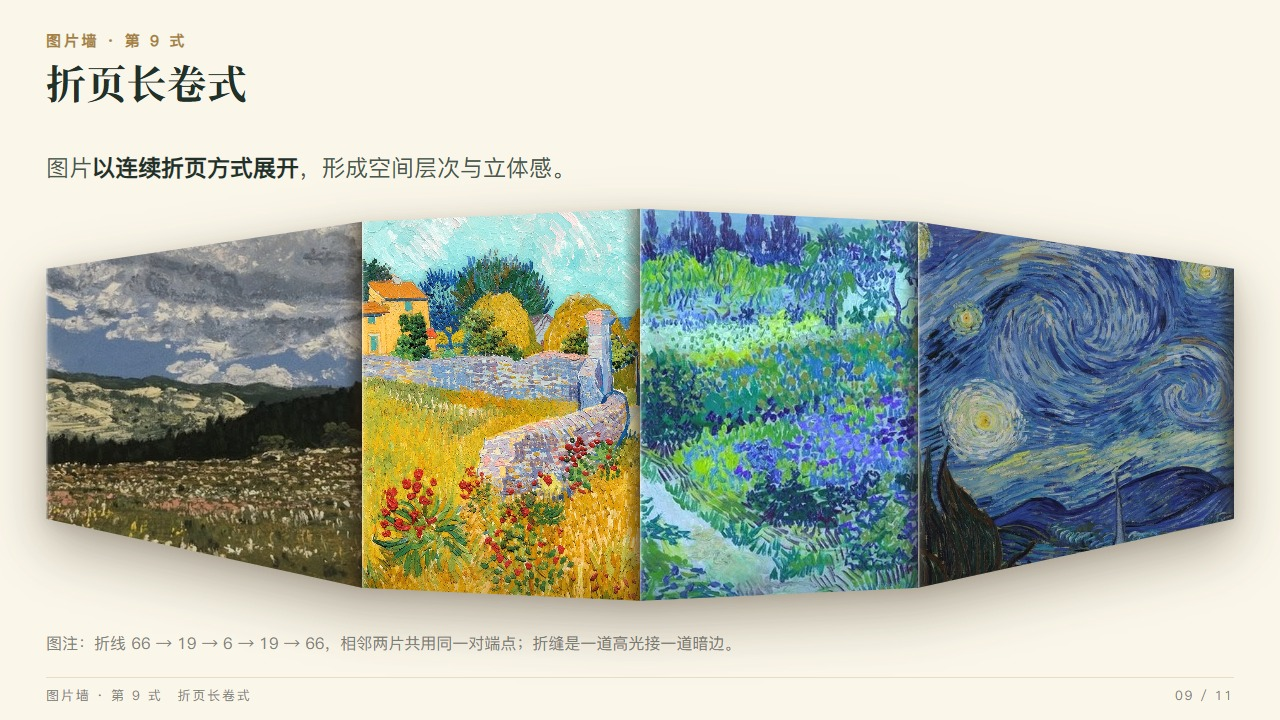
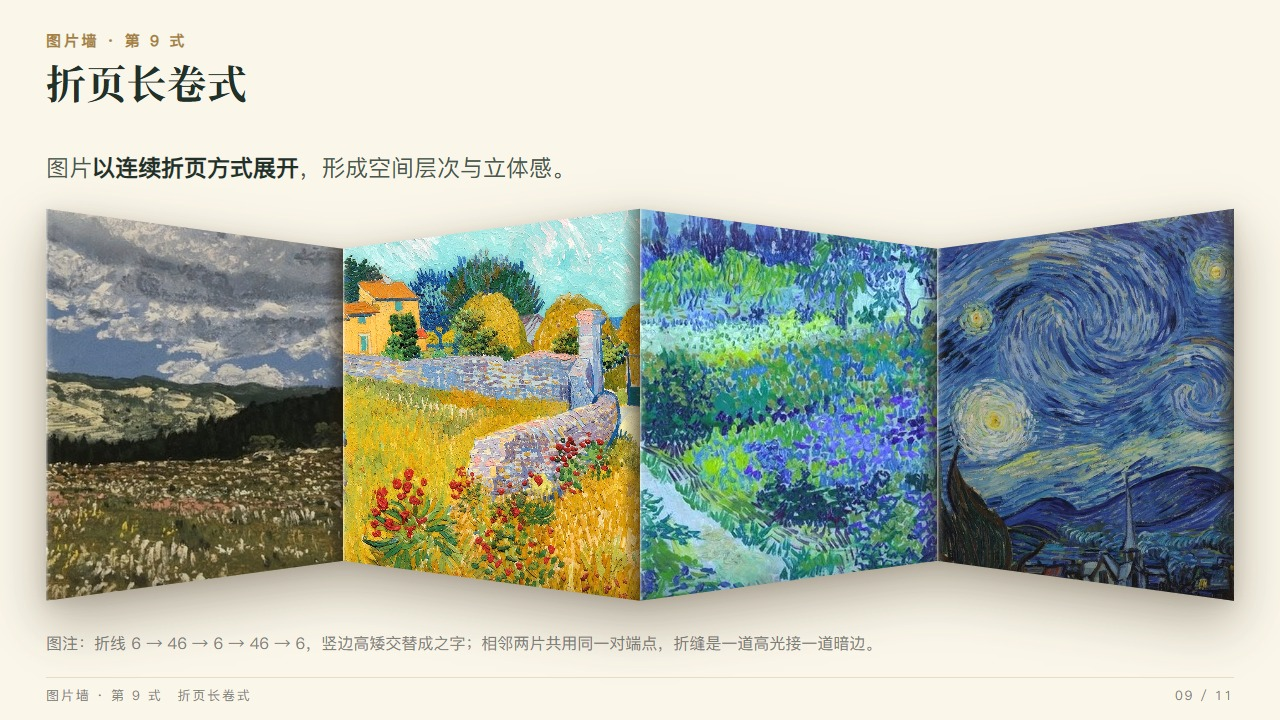
rice-paper-ppt 1.7.4：矩阵网格式按参考图重做——5×3 十五格卷成圆柱面
- 弃 2×2 两翼各转 22°，改棱柱面法：每列 translateZ(-R) rotateY(φ) translateZ(R)，R=678=列宽212÷2sin9°，φ=−36/−18/0/18/36；中列正对观众、越往外越窄越暗
- 关键坑：五列必须 absolute 叠在容器中点，flex 排开会与圆柱位移叠加、列距翻倍散开（实测踩过）
- 格 202×132、横竖缝同宽 10px、图不够相邻重复；wall-grid.html 与实拍重渲核对
- page-patterns §12.8 / components / README / SKILL / interface.yaml / evals R27 同步，两份副本 diff 全等

diff --git a/rice-paper-ppt/assets/theme.css b/rice-paper-ppt/assets/theme.css
@@ -432,86 +432,105 @@ em { font-style: normal; font-weight: 700; color: var(--green); }
 .crest-head { position: absolute; left: 0; top: 0; width: 660px; }
 .crest-head .wt { margin: 0 0 8px; font-size: var(--fs-h1); }
 
-/* ── 8 矩阵网格式（弧墙）：四张两行两列，整面朝观众卷进来 ────────────────────
-   三件套：perspective 挂容器、每列 rotateY 转角、沿 Z 退到圆弧上。
-   θ 与 Z 必须成对：只转不退，边列的四角会翘到邻格上；只退不转，边列只是变小、不变形。
-   立体感的大头不在形变而在光：中缝退得最远也压得最暗、两端外沿最亮，
-   再补一层顶亮底暗和一道贴地影，墙才从纸面上站起来。
-   两列各 24°、Z −110、perspective 1000：中缝比外沿矮 19%，这个差值才够读成「卷」。 */
+/* ── 8 矩阵网格式：5 列 × 3 行十五格，整面卷成一段圆柱面 ────────────────────
+   做法＝正多边形棱柱面：每列 transform: translateZ(-R) rotateY(φ) translateZ(R)，
+   列宽即弦长 W，R = W ÷ 2sin(δ/2)（δ 为每列圆心角），φ 从 −2δ 到 +2δ——
+   中列正对观众、两侧各两列绕圆柱向后转，相邻列的公共棱在 3D 里近似共点，
+   投影后中缝不裂。只转不退（少 translateZ）边列会翘到邻格上；只退不转只是变小不变形。
+   立体感的大头不在形变而在光：中列离观众最近全亮，越往外越暗越窄；
+   再补顶亮底暗与贴地影。容器禁止 filter——会把 3D 子层压平（投影走伪元素）。 */
 .w-cyl {
-  --cg: 5px; --a: 22deg;
+  --cw: 212px;  /* 列宽（弦长） */
+  --ch: 132px;  /* 格高 */
+  --cg: 10px;   /* 白缝（横竖同宽） */
+  --R: 678px;   /* 圆柱半径 = 212 ÷ 2sin9° */
+  --a: 18deg;   /* 每列圆心角 δ */
   position: relative;
-  display: grid; grid-template-columns: repeat(2, 1fr); grid-auto-rows: 1fr;
-  width: calc(100% + 92px); margin-left: -46px;
-  gap: var(--cg); height: 404px; background: none;
-  perspective: 1100px; perspective-origin: 50% 50%;
+  width: 100%; height: 416px; background: none;
+  perspective: 1200px; perspective-origin: 50% 50%;
 }
-/* 贴地影：只给每格配投影，四面都亮，墙是「悬」着的；先在地上压一道椭圆再谈形变。
-   用绝对定位的伪元素，不占网格位；直接给容器加 filter 会把 3D 子层压平。 */
+/* 贴地影：直接给容器加 filter 会把 3D 子层压平，投影用绝对定位伪元素。
+   （此规则与 .w-arc 共用，弧幕几乎全宽所以 left/right 3%，网格墙更窄单独放宽。） */
 .w-cyl::before,
 .w-arc::before {
-  content: ""; position: absolute; left: 3%; right: 3%; bottom: -20px; height: 30px;
+  content: ""; position: absolute; left: 3%; right: 3%; bottom: -18px; height: 30px;
   background: radial-gradient(ellipse at 50% 50%,
-    rgba(52,38,20,.42) 0, rgba(52,38,20,.16) 46%, rgba(52,38,20,0) 74%);
+    rgba(52,38,20,.40) 0, rgba(52,38,20,.15) 46%, rgba(52,38,20,0) 74%);
   filter: blur(5px); pointer-events: none;
 }
+.w-cyl::before { left: 15%; right: 15%; }
+/* 列＝棱柱面的一片：五列全部叠在容器中点（absolute 同一位置），
+   圆柱位置完全交给 transform——若再用 flex 排开，静态位置会与圆柱位移叠加，
+   列距直接翻倍散开（实测踩过）。padding 让出竖缝，列内三格用 margin 让出横缝 */
 .w-cyl .cc {
-  position: relative; min-width: 0; overflow: hidden;
-  transform: rotateY(var(--ry, 0deg));
+  position: absolute; left: calc(50% - var(--cw) / 2); top: 0;
+  width: var(--cw); padding: 0 calc(var(--cg) / 2);
+  transform: translateZ(calc(var(--R) * -1)) rotateY(var(--ry, 0deg)) translateZ(var(--R));
 }
-.w-cyl .cc img { width: 100%; height: 100%; object-fit: cover; display: block; }
-/* 轴在**中缝**不在格心：两列绕同一条竖轴各转 20°，中缝纹丝不动、两翼向后张，
-   接缝宽度不会被转开。轴放格心就成了两块各自歪的板，中缝裂成一条白沟。
-   两翼都朝后张＝中缝离观众最近，中缝最亮、两翼越往外越暗，这面墙才「面朝你」。 */
-.w-cyl .cc:nth-child(odd)  { --ry: calc(var(--a) * -1); transform-origin: 100% 50%;
-  box-shadow: -3px 0 0 #FFFDF6, -10px 0 16px -8px rgba(52,38,20,.30); }
-.w-cyl .cc:nth-child(even) { --ry: var(--a); transform-origin: 0% 50%;
-  box-shadow: 3px 0 0 #FFFDF6, 10px 0 16px -8px rgba(52,38,20,.30); }
-/* 逐格受光：光在上偏左——左翼整体偏亮、右翼偏暗，两翼各自越靠外越暗 */
+.w-cyl .cc img {
+  width: 100%; height: var(--ch); object-fit: cover; display: block;
+  margin-bottom: var(--cg);
+}
+.w-cyl .cc img:last-child { margin-bottom: 0; }
+/* 列角：−36 / −18 / 0 / 18 / 36（δ=18°），轴在各列自身格心、R 把棱推回圆柱面 */
+.w-cyl .cc:nth-child(1) { --ry: calc(var(--a) * -2); }
+.w-cyl .cc:nth-child(2) { --ry: calc(var(--a) * -1); }
+.w-cyl .cc:nth-child(4) { --ry: var(--a); }
+.w-cyl .cc:nth-child(5) { --ry: calc(var(--a) * 2); }
+/* 逐列受光：光在上偏中——中列全亮，越往外越暗；外列外缘再压一道背光暗边 */
 .w-cyl .cc::after {
-  content: ""; position: absolute; inset: 0; pointer-events: none;
+  content: ""; position: absolute; inset: 0 calc(var(--cg) / 2); pointer-events: none;
   background:
     linear-gradient(to bottom, rgba(255,251,238,.30) 0, rgba(255,251,238,0) 22%),
     linear-gradient(to top, rgba(34,24,12,.30) 0, rgba(34,24,12,0) 20%);
 }
-.w-cyl .cc:nth-child(odd)::after {
+.w-cyl .cc:nth-child(2)::after {
   background:
     linear-gradient(to bottom, rgba(255,251,238,.30) 0, rgba(255,251,238,0) 22%),
     linear-gradient(to top, rgba(34,24,12,.30) 0, rgba(34,24,12,0) 20%),
-    linear-gradient(to left,
-      rgba(255,250,235,.34) 0, rgba(255,250,235,0) 20%,
-      rgba(30,21,10,.12) 52%, rgba(30,21,10,.58) 100%);
+    linear-gradient(to right, rgba(255,250,235,.16) 0, rgba(255,250,235,0) 30%,
+      rgba(30,21,10,0) 55%, rgba(30,21,10,.30) 100%);
 }
-.w-cyl .cc:nth-child(even)::after {
+.w-cyl .cc:nth-child(4)::after {
   background:
     linear-gradient(to bottom, rgba(255,251,238,.30) 0, rgba(255,251,238,0) 22%),
     linear-gradient(to top, rgba(34,24,12,.30) 0, rgba(34,24,12,0) 20%),
-    linear-gradient(to right,
-      rgba(255,250,235,.26) 0, rgba(255,250,235,0) 20%,
-      rgba(30,21,10,.16) 52%, rgba(30,21,10,.64) 100%);
+    linear-gradient(to left, rgba(255,250,235,.16) 0, rgba(255,250,235,0) 30%,
+      rgba(30,21,10,0) 55%, rgba(30,21,10,.30) 100%);
 }
-.w-cyl .cc:nth-child(even) img { filter: brightness(.94) saturate(.97); }
+.w-cyl .cc:nth-child(1)::after {
+  background:
+    linear-gradient(to bottom, rgba(255,251,238,.26) 0, rgba(255,251,238,0) 22%),
+    linear-gradient(to top, rgba(34,24,12,.32) 0, rgba(34,24,12,0) 20%),
+    linear-gradient(to right, rgba(30,21,10,.44) 0, rgba(30,21,10,.10) 55%, rgba(255,250,235,.22) 100%);
+}
+.w-cyl .cc:nth-child(5)::after {
+  background:
+    linear-gradient(to bottom, rgba(255,251,238,.26) 0, rgba(255,251,238,0) 22%),
+    linear-gradient(to top, rgba(34,24,12,.32) 0, rgba(34,24,12,0) 20%),
+    linear-gradient(to left, rgba(30,21,10,.44) 0, rgba(30,21,10,.10) 55%, rgba(255,250,235,.22) 100%);
+}
 
-/* ── 9 折页长卷式（弧屏）：四片共边梯形折成一道弧，接缝处上下边严丝合缝 ────────
+/* ── 9 折页长卷式（之字形手风琴）：四片等宽梯形折成 W 形折屏 ────────────────────
    这一式不用 rotateY：逐片旋转会让相邻两片的公共边错开 3–8px，接缝上出现台阶。
    做法是把五条折线的上下端点定成同一组数，相邻两片共用同一对端点，梯形裁切自然
    拼成一条连续折线；纵深交给折角明暗与片间亮度差，不交给形变。
-   片宽不等：两端各 316px、中间两片 1fr——等宽读成四块等大的板，没有「转过去」的意思。 */
+   轮廓实测自原稿：竖边高度「高—矮—高—矮—高」交替（两端与中缝高、第 1/3 缝矮），
+   是之字形手风琴，不是中间鼓起的拱；落差约为页高 10%，太大两端就塌成窄条。
+   四片等宽——原稿四片边界正好落在四等分点上。 */
 .w-fold {
   display: flex; gap: 0; height: 404px; background: none;
   filter: drop-shadow(0 22px 26px rgba(52,38,20,.34)) drop-shadow(0 4px 8px rgba(52,38,20,.16));
 }
 .w-fold .lf { position: relative; flex: 1 1 0; min-width: 0; }
-.w-fold .lf:nth-child(1),
-.w-fold .lf:nth-child(4) { flex: 0 0 316px; }
 .w-fold .lf img { width: 100%; height: 100%; object-fit: cover; display: block; }
-/* 折线端点：上缘 66 → 19 → 6 → 19 → 66，下缘 316 → 385 → 398 → 385 → 316。
-   相邻两片共用同一对 y，接缝既没有台阶也没有白缝；落差 60px 才读得出折角，
-   再大两端就塌成窄条。上下各留 6px，别顶到 404 的边界。 */
-.w-fold .lf:nth-child(1) { clip-path: polygon(0 66px, 100% 19px, 100% 385px, 0 316px); }
-.w-fold .lf:nth-child(2) { clip-path: polygon(0 19px, 100% 6px,  100% 398px, 0 385px); }
-.w-fold .lf:nth-child(3) { clip-path: polygon(0 6px,  100% 19px, 100% 385px, 0 398px); }
-.w-fold .lf:nth-child(4) { clip-path: polygon(0 19px, 100% 66px, 100% 316px, 0 385px); }
+/* 折线端点：上缘 6 → 46 → 6 → 46 → 6，下缘 398 → 358 → 398 → 358 → 398。
+   相邻两片共用同一对 y，接缝既没有台阶也没有白缝；奇数片向右收、偶数片向右放，
+   拼出「高—矮—高—矮—高」的之字。上下各留 6px，别顶到 404 的边界。 */
+.w-fold .lf:nth-child(1) { clip-path: polygon(0 6px,  100% 46px, 100% 358px, 0 398px); }
+.w-fold .lf:nth-child(2) { clip-path: polygon(0 46px, 100% 6px,  100% 398px, 0 358px); }
+.w-fold .lf:nth-child(3) { clip-path: polygon(0 6px,  100% 46px, 100% 358px, 0 398px); }
+.w-fold .lf:nth-child(4) { clip-path: polygon(0 46px, 100% 6px,  100% 398px, 0 358px); }
 /* 折缝：每片左端一道 3px 高光（#FFFDF6）、右端一道 6% 宽的暗边，
    相邻两片一拼就是「亮—暗」的折角；两侧都压暗只会糊成一条黑边，读不出折。 */
 .w-fold .lf::after {
@@ -645,6 +664,7 @@ em { font-style: normal; font-weight: 700; color: var(--green); }
   .slide.on .w-cyl .cc:nth-child(2) { animation-delay: .06s; }
   .slide.on .w-cyl .cc:nth-child(3) { animation-delay: .12s; }
   .slide.on .w-cyl .cc:nth-child(4) { animation-delay: .18s; }
+  .slide.on .w-cyl .cc:nth-child(5) { animation-delay: .24s; }
   .slide.on .w-fold { animation: wallRise .7s cubic-bezier(.22,.75,.2,1) both; }
   .slide.on .w-arc .ai { animation: wallFade .55s ease-out both; }
   .slide.on .w-arc .ai:nth-child(2) { animation-delay: .07s; }

diff --git a/rice-paper-ppt/examples/wall-grid.html b/rice-paper-ppt/examples/wall-grid.html
@@ -11,20 +11,25 @@
   <div class="pbar"></div>
   <div id="deck">
 
+    <!-- 8 矩阵网格式：5 列 × 3 行十五格，整面卷成一段圆柱面（参考图重做）。
+         每列 .cc 是棱柱面的一片：translateZ(-R) rotateY(φ) translateZ(R)，φ=−36/−18/0/18/36，
+         R=678（=列宽 212 ÷ 2sin9°）；中列正对观众，越往外越窄、越暗。
+         列内三格纵向排，横竖缝都是 10px；容器禁 filter（会压平 3D 子层）。 -->
     <section class="slide on">
       <div class="sh">
         <div class="kick">图片墙 · 第 8 式</div>
         <h1 class="stitle">矩阵网格式</h1>
       </div>
       <div class="sb">
-        <p class="lead">多张图片<b>按照规则网格排列</b>，强调整体性与秩序感。</p>
+        <p class="lead">多张图片<b>按照规则网格排列</b>，整面卷成圆柱，强调整体性与秩序感。</p>
         <div class="wall w-cyl">
-          <div class="cc"><img src="img/vg1.jpg" alt=""></div>
-          <div class="cc"><img src="img/vg2.jpg" alt=""></div>
-          <div class="cc"><img src="img/vg3.jpg" alt=""></div>
-          <div class="cc"><img src="img/vg4.jpg" alt=""></div>
+          <div class="cc"><img src="img/vg1.jpg" alt=""><img src="img/vg6.jpg" alt=""><img src="img/vg5.jpg" alt=""></div>
+          <div class="cc"><img src="img/vg2.jpg" alt=""><img src="img/vg1.jpg" alt=""><img src="img/vg6.jpg" alt=""></div>
+          <div class="cc"><img src="img/vg3.jpg" alt=""><img src="img/vg2.jpg" alt=""><img src="img/vg1.jpg" alt=""></div>
+          <div class="cc"><img src="img/vg4.jpg" alt=""><img src="img/vg3.jpg" alt=""><img src="img/vg2.jpg" alt=""></div>
+          <div class="cc"><img src="img/vg5.jpg" alt=""><img src="img/vg4.jpg" alt=""><img src="img/vg3.jpg" alt=""></div>
         </div>
-        <div class="figcap">图注：中缝不动、两翼各转 22°，端列比中缝矮 17%；外缘留一道 3px 纸边。</div>
+        <div class="figcap">图注：十五格 5×3 卷成一段圆柱面——中列正对观众，越往外越窄、越暗；横竖缝都是 10px。</div>
       </div>
       <div class="foot"><span>图片墙 · 第 8 式　矩阵网格式</span><span>08 / 11</span></div>
     </section>

diff --git a/rice-paper-ppt/examples/wall-sec.html b/rice-paper-ppt/examples/wall-sec.html
@@ -27,12 +27,7 @@
             <div class="sd"><img src="img/vg3.jpg" alt=""></div>
             <div class="sd"><img src="img/vg5.jpg" alt=""></div>
           </div>
-          <div class="sec-cap">
-            <div class="sec-t">四帧一把扇</div>
-            <div class="sec-s">同题四帧 · 放射接缝</div>
-          </div>
         </div>
-        <div class="figcap">图注：外弧与内弧同出一条 path，扇骨是放射接缝；接缝两端各让 0.08°，窄到读成一条纸缝。</div>
       </div>
       <div class="foot"><span>图片墙 · 第 6 式　半圆扇面式</span><span>06 / 11</span></div>
     </section>

diff --git a/rice-paper-ppt/examples/wall-fold.html b/rice-paper-ppt/examples/wall-fold.html
@@ -24,7 +24,7 @@
           <div class="lf"><img src="img/vg3.jpg" alt=""></div>
           <div class="lf"><img src="img/vg4.jpg" alt=""></div>
         </div>
-        <div class="figcap">图注：折线 66 → 19 → 6 → 19 → 66，相邻两片共用同一对端点；折缝是一道高光接一道暗边。</div>
+        <div class="figcap">图注：折线 6 → 46 → 6 → 46 → 6，竖边高矮交替成之字；相邻两片共用同一对端点，折缝是一道高光接一道暗边。</div>
       </div>
       <div class="foot"><span>图片墙 · 第 9 式　折页长卷式</span><span>09 / 11</span></div>
     </section>

diff --git a/rice-paper-ppt/SKILL.md b/rice-paper-ppt/SKILL.md
@@ -1,7 +1,7 @@
 ---
 name: rice-paper-ppt
 version: 1.7.1
-description: 制作或改版「米纸质感」风格的 HTML 幻灯片时使用：1280×720 单页文件式 deck，暖米纸底 + 深林绿 + 哑光金的中式编辑版式，衬线大标题、投影级字号（正文不低于 20px，表格/代码不低于 18px），自带 theme.css 版式系统、6 页可运行骨架、十二种版式配方（含多图排版的图片墙十一式：1 齐边错落式 / 2 波浪贯通式 / 3 纵深渐进式 / 4 不对称叶片式 / 5 螺旋长卷式——内联 SVG 逐块裁形填图，整页通栏与内容页两种落位 / 6 半圆扇面式——扇骨即放射接缝 / 7 弧形切幅式——上缘左低右高单向抬起 / 8 矩阵网格式——两翼绕中缝卷入 / 9 折页长卷式与 10–11 弧幕连屏式（外弧、内弧）——共边梯形不用逐片旋转，曲线用 clip-path path、纵深用 perspective+rotateY、立体靠暖白拼缝、沿轮廓投影与受光差，2 / 4 的曲线按参考图逐列量得再转贝塞尔，4 左端下缘单调收束不留尖钩）、可选增强层 fx.js（无 GSAP 时自动退回纯 CSS，有 GSAP 时接管编排，并留出 WebGL / Canvas 的注册接口）与 Playwright 逐页版式审计脚本；视觉与文案双层规范、文案分语言与信息结构两份：版式层固定页码「当前/总页」、章节首页徽记（印章圆环 + 单色线稿）、视频暂停与进度条控件，文案层按 copywriting-spec.md 约束标题、句式、术语与标点，按 content-structure-spec.md 约束专业术语提炼、信息层级重构、内容压缩、章节封面定位与信息可视化，消除机械化对比句式、口语化引导语、模糊代称和空泛营销表达。适用于汇报、路演、方案宣讲、培训、分享会、文化展陈、课程等任何需要大屏投影且讲究纸感的场合，也适用于把已有同类 HTML 幻灯片按这套规范重构（放大字号、消除空旷、修溢出、重排层级、规范文案语言、给一组图排成整墙）。触发词：米纸风 PPT、中式学术风幻灯片、纸感 deck、把这份 PPT 改成米纸风格、HTML 幻灯片改版、放大字号、排得专业点、PPT 文案规范化、PPT 文案精炼、信息结构化、专业术语提炼、去掉模糊代称、章节封面精简、多图排版、几张图怎么排、图片墙、图片错落排布、去掉 AI 味。
+description: 制作或改版「米纸质感」风格的 HTML 幻灯片时使用：1280×720 单页文件式 deck，暖米纸底 + 深林绿 + 哑光金的中式编辑版式，衬线大标题、投影级字号（正文不低于 20px，表格/代码不低于 18px），自带 theme.css 版式系统、6 页可运行骨架、十二种版式配方（含多图排版的图片墙十一式：1 齐边错落式 / 2 波浪贯通式 / 3 纵深渐进式 / 4 不对称叶片式 / 5 螺旋长卷式——内联 SVG 逐块裁形填图，整页通栏与内容页两种落位 / 6 半圆扇面式——扇骨即放射接缝 / 7 弧形切幅式——上缘左低右高单向抬起 / 8 矩阵网格式——5×3 十五格卷成圆柱面（棱柱面法：translateZ(-R) rotateY(φ) translateZ(R)，五列叠容器中点） / 9 折页长卷式与 10–11 弧幕连屏式（外弧、内弧）——共边梯形不用逐片旋转，曲线用 clip-path path、纵深用 perspective+rotateY、立体靠暖白拼缝、沿轮廓投影与受光差，2 / 4 的曲线按参考图逐列量得再转贝塞尔，4 左端下缘单调收束不留尖钩）、可选增强层 fx.js（无 GSAP 时自动退回纯 CSS，有 GSAP 时接管编排，并留出 WebGL / Canvas 的注册接口）与 Playwright 逐页版式审计脚本；视觉与文案双层规范、文案分语言与信息结构两份：版式层固定页码「当前/总页」、章节首页徽记（印章圆环 + 单色线稿）、视频暂停与进度条控件，文案层按 copywriting-spec.md 约束标题、句式、术语与标点，按 content-structure-spec.md 约束专业术语提炼、信息层级重构、内容压缩、章节封面定位与信息可视化，消除机械化对比句式、口语化引导语、模糊代称和空泛营销表达。适用于汇报、路演、方案宣讲、培训、分享会、文化展陈、课程等任何需要大屏投影且讲究纸感的场合，也适用于把已有同类 HTML 幻灯片按这套规范重构（放大字号、消除空旷、修溢出、重排层级、规范文案语言、给一组图排成整墙）。触发词：米纸风 PPT、中式学术风幻灯片、纸感 deck、把这份 PPT 改成米纸风格、HTML 幻灯片改版、放大字号、排得专业点、PPT 文案规范化、PPT 文案精炼、信息结构化、专业术语提炼、去掉模糊代称、章节封面精简、多图排版、几张图怎么排、图片墙、图片错落排布、去掉 AI 味。
 license: MIT
 ---
 
@@ -111,7 +111,7 @@ cp -r rice-paper-ppt ~/.claude/skills/
 | 分部分 | 章节分隔（深绿章板） | 底色加重 + 超大编号 + 大标题 + 3 条要点 + 一句格言 + **本章徽记** |
 | 讲一个案例 | 图文分栏 | 图占 45–65%，文字只留 3 条结论 |
 | 两案对照 | 双栏并列 | 等宽两列 + 一条 `.bar` 收束 |
-| 并置一组图 | 图片墙十一式 | 1 齐边错落式 4–5 张照片卡上下错位 / 2 波浪贯通式 4 张通栏大 S 出血（波峰 20%、波谷 81%）/ 3 纵深渐进式 8 张透视纵深贴右缘 / 4 不对称叶片式 4–5 张一条遮罩裁出不规则叶片 / 5 螺旋长卷式 7 块盘绕（内联 SVG，两种落位：整页通栏 637×720 三边出血 / 内容页 430×485 收右列）/ 6 半圆扇面式 4 片放射（扇骨即接缝）/ 7 弧形切幅式 4 张上缘左低右高单向抬起 / 8 矩阵网格式 2×2 两翼绕中缝各转 22° / 9 折页长卷式 4 片共边梯形 / 10–11 弧幕连屏式 4–5 片外弧或内弧；文字只留一条标题带。各 式 16:9 整页实拍 `examples/wall-stagger|wave|depth|fan|coil|sec|crest|grid|fold|arc|arc-inner.jpg` |
+| 并置一组图 | 图片墙十一式 | 1 齐边错落式 4–5 张照片卡上下错位 / 2 波浪贯通式 4 张通栏大 S 出血（波峰 20%、波谷 81%）/ 3 纵深渐进式 8 张透视纵深贴右缘 / 4 不对称叶片式 4–5 张一条遮罩裁出不规则叶片 / 5 螺旋长卷式 7 块盘绕（内联 SVG，两种落位：整页通栏 637×720 三边出血 / 内容页 430×485 收右列）/ 6 半圆扇面式 4 片放射（扇骨即接缝）/ 7 弧形切幅式 4 张上缘左低右高单向抬起 / 8 矩阵网格式 5×3 十五格卷成圆柱面（中列正对、越往外越窄越暗） / 9 折页长卷式 4 片共边梯形 / 10–11 弧幕连屏式 4–5 片外弧或内弧；文字只留一条标题带。各 式 16:9 整页实拍 `examples/wall-stagger|wave|depth|fan|coil|sec|crest|grid|fold|arc|arc-inner.jpg` |
 | 比参数 / 比方案 | 表格 | 4–7 行；7 行以上用 `.tbl.tight` |
 | 展示一段原文 | 引文框 | `pbox` + 结果图 + 高亮本次新增部分 |
 | 讲步骤 | 横向流程 | 4 节点 + 旁注 + `.bar` |
@@ -251,7 +251,7 @@ python <skill>/scripts/contact-sheet.py ./shots     # 拼成缩略图总览
    章节封面是否只剩主题。两份审查的发现直接改定后再交付，不把审查过程写进成品。
 6. **多图页**：图墙是否等宽白缝、曲线是否只起伏一次且波峰在左 1/5（2）、左右是否真的出血铺满（2 / 4 / 6 / 7 / 8 / 10 / 11）、
    右侧是否贴边且明显更大（3）、4 是否由一条遮罩裁出（接缝无台阶、左厚中小右回升）、7 的上缘是否真的左低右高单向抬起、
-   9 / 10 / 11 的折线端点是否逐条对齐（错 1% 就是 4px 台阶）、8 的转轴是否在中缝、`cover` 裁切是否吃掉主体、
+   9 / 10 / 11 的折线端点是否逐条对齐（错 1% 就是 4px 台阶）、8 是否五列叠在容器中点且外围格真的变窄变暗、`cover` 裁切是否吃掉主体、
    投影是否沿轮廓落下（而不是被 `clip-path` 裁掉）、标题带是否只有一条；
    一套 deck 里图墙不超过两次，且不与图文分栏页相邻。
 

diff --git a/rice-paper-ppt/references/page-patterns.md b/rice-paper-ppt/references/page-patterns.md
@@ -197,8 +197,8 @@ SVG 的 presentation attribute 不吃 `var()`，所以别在图标里写 `var(--
 | 5 螺旋长卷式 | 一条带子绕一圈半，切成七块 | 行进、绕行，有起点与终点 | 7（5–7 张图） | 整页通栏 637×720 三边出血 / 内容页 430×485 | 通栏：常规标题带规格；内容页：导语 + 标题 + 2 条 |
 | 6 半圆扇面式 | 四片围绕半圆放射展开，扇骨即接缝 | 聚拢、围绕一个中心 | 4 | 左右出血，舞台 1280×449 | 内弧下空档居中贴条 |
 | 7 弧形切幅式 | 只弯上缘，左低右高单向抬起 | 延伸、推移、地平线 | 4 | 左右出血，下缘贴内容区底 | 左上三角纸面文字块 |
-| 8 矩阵网格式 | 2×2 网格，两翼绕中缝卷入 | 秩序、整体、矩阵 | 4 | 左右出血 92px | 图下居中标题带 |
-| 9 折页长卷式 | 四片共边梯形折成一道弧 | 层次、展开、折页 | 4 | 内容区，两端片 316px | 图下居中标题带 |
+| 8 矩阵网格式 | 5×3 十五格卷成一段圆柱面 | 秩序、整体、矩阵 | 15（5×3，图不够相邻重复） | 居中，格 202×132 | 图下居中标题带 |
+| 9 折页长卷式 | 四片等宽梯形折成之字折屏 | 层次、展开、折页 | 4 | 内容区，四片等宽 | 图下居中标题带 |
 | 10 弧幕连屏式 | 竖幅沿外弧连续排列，端片放大 | 环幕、连续、包围 | 4–5 | 左右出血 15px | 图下居中标题带 |
 | 11 弧幕连屏式（内弧） | 同 10 反向，中段鼓起 | 聚焦、收拢 | 4 | 同 10 | 同 10 |
 
@@ -417,35 +417,42 @@ SVG 的 presentation attribute 不吃 `var()`，所以别在图标里写 `var(--
 
 ### 8 矩阵网格式
 
-> 多张图片按照规则网格排列，强调整体性与秩序感。
+> 多张图片按照规则网格排列，整面卷成圆柱，强调整体性与秩序感。
 
 
-**2×2 网格，两翼绕中缝各转 22°，整面朝观众卷进来。**
+**5 列 × 3 行十五格，整面卷成一段圆柱面——中列正对观众，越往外越窄、越暗。**
 
-- 三件套：`perspective` 挂容器（1100px）、每列 `rotateY`、沿 Z 退到圆弧上。
+- 几何锁死：列宽即弦长 W（212px），每列圆心角 δ（18°），圆柱半径 `R = W ÷ 2sin(δ/2)`（≈678px），
+  五列角 `φ = −2δ / −δ / 0 / δ / 2δ`。想要更多列就按公式加列加角，别手调数值。
+- 每列 `transform: translateZ(-R) rotateY(φ) translateZ(R)`——先把列沿 Z 退 R、
+  转完再推回，相邻列的公共棱在 3D 里近似共点，投影后中缝不裂。
   只转不退，边列四角会翘到邻格上；只退不转，边列只是变小、不变形。
-- **轴在中缝不在格心**：奇数格 `transform-origin:100% 50%`、偶数格 `0% 50%`，
-  两列绕同一条竖轴各转 22°——中缝纹丝不动、两翼向后张。轴放格心就成了两块各歪各的板，
-  中缝裂成白沟（实测端列比中缝矮 17%）。
-- **立体感的大头是光**：中缝退得最远也压得最暗、两端外沿最亮，再补顶亮底暗与贴地椭圆影。
+- **五列必须叠在容器中点（absolute 同一位置）**，圆柱位置完全交给 transform。
+  若再用 flex/grid 排开，静态位置会与圆柱位移叠加，列距直接翻倍散开、两列跑出画布（实测踩过）。
+- 缝：横缝用列内 `img` 的 `margin-bottom`、竖缝用列的左右 `padding`，同宽（10px）；
+  列间不加 `gap`——圆柱面由 transform 拼接，加了 gap 棱上就裂。
+- **立体感的大头是光**：中列全亮，越往外压得越暗（外列外缘再压一道背光暗边），
+  再补顶亮底暗与贴地椭圆影。
 - 坑：**`.w-cyl` 容器禁止 `filter`**——会把 3D 子层压平，透视直接失效且无报错；
   投影一律改用伪元素（`::before`）。
-- 格子必须横（≈638×200）：竖格转动只表现为变窄，看不出卷。
+- 格子必须横（≈202×132，约 3:2）：竖格转动只表现为变窄，看不出卷。
 
 ### 9 折页长卷式
 
 > 图片以连续折页方式展开，形成空间层次与立体感。
 
 
-**四片共边梯形折成一道弧，接缝处上下边严丝合缝。**
+**四片等宽梯形折成之字形折屏（手风琴），接缝处上下边严丝合缝。**
 
 - **不用 `rotateY`**：逐片旋转会让相邻两片的公共边错位 3–8px，读成「四张歪卡」。
-  做法是把五条折线的上下端点定成同一组数（上缘 66→19→6→19→66、下缘 316→385→398→385→316），
+  做法是把五条折线的上下端点定成同一组数（上缘 6→46→6→46→6、下缘 398→358→398→358→398），
   相邻两片共用同一对端点，梯形裁切自然拼成一条连续折线。
-- 片宽不等：两端各 316px、中间两片 `1fr`——等宽读成四块等大的板，没有「转过去」的意思。
+- **轮廓是之字形、不是拱**：竖边高度「高—矮—高—矮—高」交替（两端与中缝高、第 1/3 缝矮），
+  做成中间鼓起的弧就与原稿不符；落差约页高 10%（40px），太大两端塌成窄条。
+- 四片等宽（原稿边界正好落在四等分点上）。
   `gap:0`，折缝 = 每片左端 3px 高光 + 右端 6% 宽暗边；`background:none`（否则裁剪区外露白带）。
-- **片间亮度差必须有**：相邻两片朝相反方向转，不压暗就读成一整张连续全景图
-  （端片 `brightness:.84`、中片 `1.04`）。
+- **片间亮度差必须有**：外侧两片朝外转、不压暗就读成一整张连续全景图
+  （第 1/4 片 `brightness:.84`、第 2/3 片 `1.04`）。
 - 高度 404；再高会压图注，每加 20px 先量 `.sb`。
 
 ### 10 弧幕连屏式 / 11 内弧
@@ -465,7 +472,7 @@ SVG 的 presentation attribute 不吃 `var()`，所以别在图标里写 `var(--
 
 ### 十一式通用规则
 
-1. **图数**：1 取 4–5、2 取 4、3 取 8、4 取 4–5、5 取 7 块（5–7 张图，不够就相邻重复）、6 取 4 片、7 取 4 张、8 取 4 格（2×2）、9 取 4 片、10 / 11 取 4–5 片。三张以下走双栏 / 三栏卡片；十张以上拆页，或改用 `.tbl` 索引加两张代表图。
+1. **图数**：1 取 4–5、2 取 4、3 取 8、4 取 4–5、5 取 7 块（5–7 张图，不够就相邻重复）、6 取 4 片、7 取 4 张、8 取 15 格（5×3，图不够相邻重复）、9 取 4 片、10 / 11 取 4–5 片。三张以下走双栏 / 三栏卡片；十张以上拆页，或改用 `.tbl` 索引加两张代表图。
 2. **等权**：所有图等宽等高、缝 3px 白纸色，外轮廓只由容器遮罩决定（4 也不再逐张改高度），
    不加各自的圆角、边框。
 3. **允许 `cover` 的唯一场景**：同题材并置、单张不承担唯一证据。人物面部、图内文字、关键细节

diff --git a/rice-paper-ppt/README.md b/rice-paper-ppt/README.md
@@ -30,7 +30,7 @@ serif display type, projection-scaled typography, a writing-style spec, and a Pl
   纵深渐进式讲层进（3，8 张沿垂直轴旋转，右缘贴边、近大远小）、不对称叶片式讲收束（4，一条遮罩裁出左厚、中小、右回升）、
   螺旋长卷式讲一段有起点的历程（5，7 块沿一条带子盘绕，可拉满整页通栏或收进内容页右列）、
   半圆扇面式讲聚拢（6，扇骨即放射接缝）、弧形切幅式讲延伸（7，上缘一条弧左低右高）、
-  矩阵网格式讲秩序（8，两翼绕中缝卷进来）、折页长卷式讲折页展开（9，四片共边梯形）、
+  矩阵网格式讲秩序（8，5×3 十五格卷成圆柱面）、折页长卷式讲折页展开（9，四片共边梯形）、
   弧幕连屏式讲环幕（10，内弧 11 反向聚焦中央）。墙内等宽白缝、不逐图配卡；立体感来自暖白拼缝、
   沿轮廓投影、边缘顶亮底暗与尺寸错落，不用发光和玻璃。`theme.css` 已内置十一式、标题带与 0.7s 入场动画，
   十一式的实拍、单格尺寸与横图裁切顺序见下文「图片墙十一式」。
@@ -108,13 +108,13 @@ serif display type, projection-scaled typography, a writing-style spec, and a Pl
 
 <p align="center"><img src="examples/wall-crest.jpg" width="760" alt="07 弧形切幅式：只弯上缘，左低右高单向抬起，下缘齐平贴内容区底" /></p>
 
-**08 矩阵网格式** — 多张图片按照规则网格排列，强调整体性与秩序感。
+**08 矩阵网格式** — 多张图片按照规则网格排列，整面卷成圆柱，强调整体性与秩序感。
 
-<p align="center"><img src="examples/wall-grid.jpg" width="760" alt="08 矩阵网格式：2×2 网格，两翼绕中缝各转 22°，整面朝观众卷进来" /></p>
+<p align="center"><img src="examples/wall-grid.jpg" width="760" alt="08 矩阵网格式：5×3 十五格卷成一段圆柱面，中列正对观众、越往外越窄越暗" /></p>
 
 **09 折页长卷式** — 图片以连续折页方式展开，形成空间层次与立体感。
 
-<p align="center"><img src="examples/wall-fold.jpg" width="760" alt="09 折页长卷式：四片共边梯形折成一道弧，接缝处上下边严丝合缝" /></p>
+<p align="center"><img src="examples/wall-fold.jpg" width="760" alt="09 折页长卷式：四片等宽梯形折成之字形折屏，接缝处上下边严丝合缝" /></p>
 
 **10 弧幕连屏式** — 多张竖幅图片沿弧线连续排列，形成环幕视觉效果。
 
@@ -133,8 +133,8 @@ serif display type, projection-scaled typography, a writing-style spec, and a Pl
 | **05 螺旋长卷式** | 七块沿一条带子盘绕，有起点与终点 | 行进、绕行 | 7 块（5–7 张图） | 最大 241×146、最小 87×53 | 竖格同 4，但最深的块只有 164 |
 | **06 半圆扇面式** | 四片围绕半圆放射展开，扇骨即接缝 | 聚拢、围绕一个中心 | 4 | 扇片 320×449（径向厚 290） | ≈68%（扇片中段取景） |
 | **07 弧形切幅式** | 只弯上缘，左低右高单向抬起 | 延伸、推移、地平线 | 4 | 竖片 320×440 | ≈48% |
-| **08 矩阵网格式** | 2×2 网格，两翼绕中缝各转 22° | 秩序、整体、矩阵 | 4 | 638×200 | 85% |
-| **09 折页长卷式** | 四片共边梯形折成一道弧 | 层次、展开、折页 | 4 | 316×404（端片） | 51% |
+| **08 矩阵网格式** | 5×3 十五格卷成一段圆柱面 | 秩序、整体、矩阵 | 15（5×3） | 202×132，居中 | 几乎不裁（格 3:2） |
+| **09 折页长卷式** | 四片等宽梯形折成之字折屏 | 层次、展开、折页 | 4 | ≈348×404（等宽） | 51% |
 | **10 弧幕连屏式** | 竖幅沿外弧连续排列，端片放大 | 环幕、连续、包围 | 4–5 | ≈320×404 | 51% |
 | **11 弧幕连屏式（内弧）** | 同 10，弧向反转、中段鼓起 | 聚焦、收拢 | 4 | 同 10 | 51% |
 

diff --git a/rice-paper-ppt/references/components.md b/rice-paper-ppt/references/components.md
@@ -279,15 +279,18 @@
   </div>
 </div>
 
-<!-- 8 矩阵网格式：2×2，两翼绕中缝各转 22°；容器禁 filter（会把 3D 子层压平），投影走 ::before -->
+<!-- 8 矩阵网格式：5×3 十五格卷成圆柱面；每列 .cc 是棱柱面的一片（列内三格纵排），
+     transform: translateZ(-R) rotateY(φ) translateZ(R)，φ=−36/−18/0/18/36、R=678=列宽212÷2sin9°；
+     五列 absolute 叠在容器中点（flex 排开会与圆柱位移叠加散开）；容器禁 filter（压平 3D），投影走 ::before -->
 <div class="wall w-cyl">
-  <div class="cc"><img src="assets/h1.jpg" alt=""></div>
-  <div class="cc"><img src="assets/h2.jpg" alt=""></div>
-  <div class="cc"><img src="assets/h3.jpg" alt=""></div>
-  <div class="cc"><img src="assets/h4.jpg" alt=""></div>
+  <div class="cc"><img src="assets/h1.jpg" alt=""><img src="assets/h2.jpg" alt=""><img src="assets/h3.jpg" alt=""></div>
+  <div class="cc"><img src="assets/h4.jpg" alt=""><img src="assets/h1.jpg" alt=""><img src="assets/h2.jpg" alt=""></div>
+  <div class="cc"><img src="assets/h3.jpg" alt=""><img src="assets/h4.jpg" alt=""><img src="assets/h1.jpg" alt=""></div>
+  <div class="cc"><img src="assets/h2.jpg" alt=""><img src="assets/h3.jpg" alt=""><img src="assets/h4.jpg" alt=""></div>
+  <div class="cc"><img src="assets/h1.jpg" alt=""><img src="assets/h2.jpg" alt=""><img src="assets/h3.jpg" alt=""></div>
 </div>
 
-<!-- 9 折页长卷式：四片共边梯形 .lf，五条折线端点相邻两片共用；gap:0，折缝=左高光+右暗边 -->
+<!-- 9 折页长卷式：四片等宽共边梯形 .lf，竖边高矮交替成之字（两端与中缝高）；gap:0，折缝=左高光+右暗边 -->
 <div class="wall w-fold">
   <div class="lf"><img src="assets/i1.jpg" alt=""></div>
   <div class="lf"><img src="assets/i2.jpg" alt=""></div>
